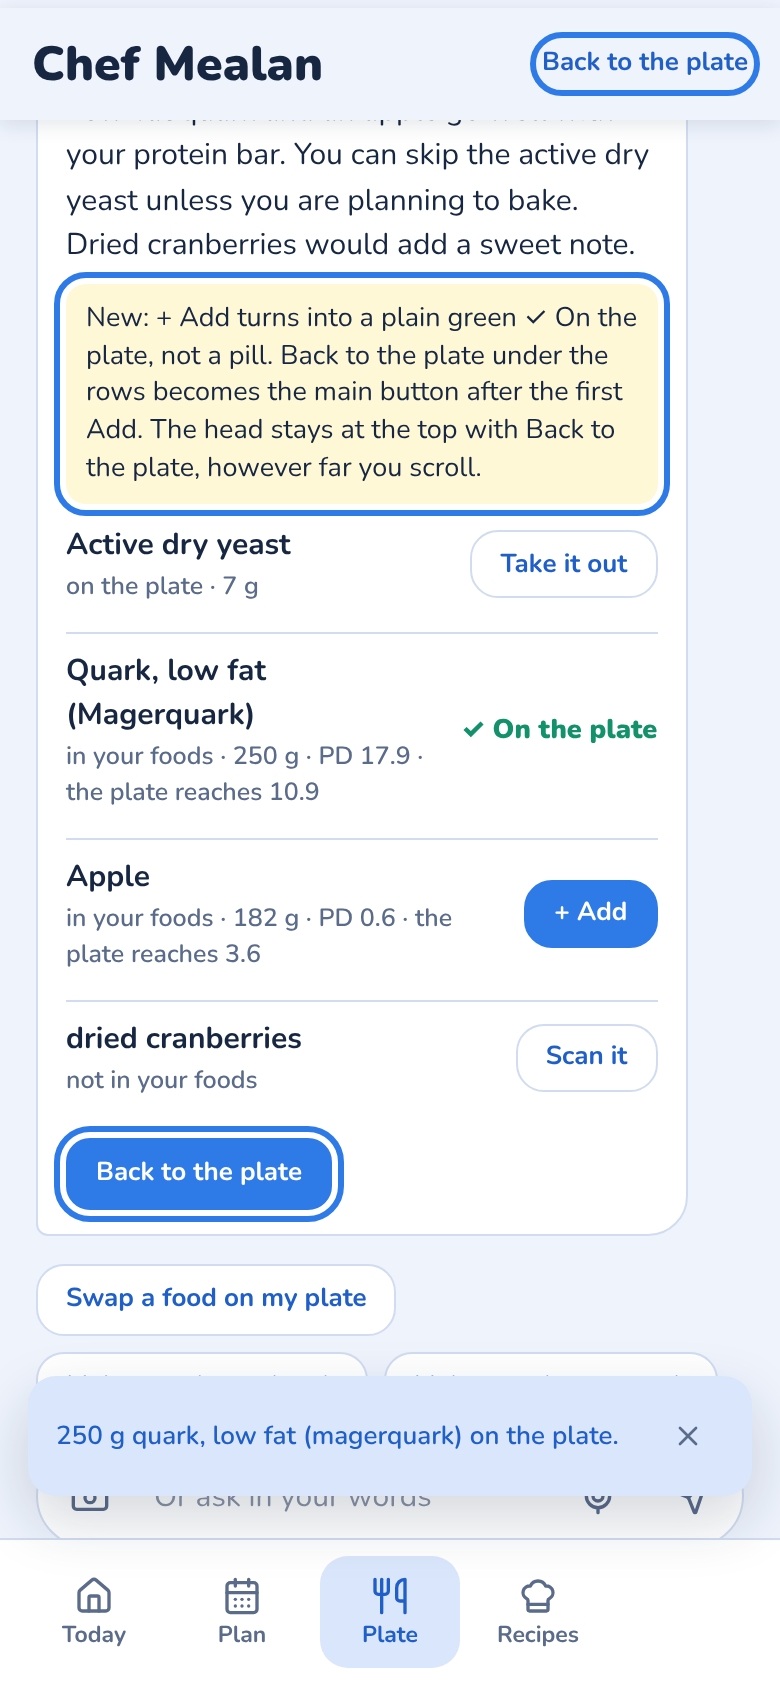
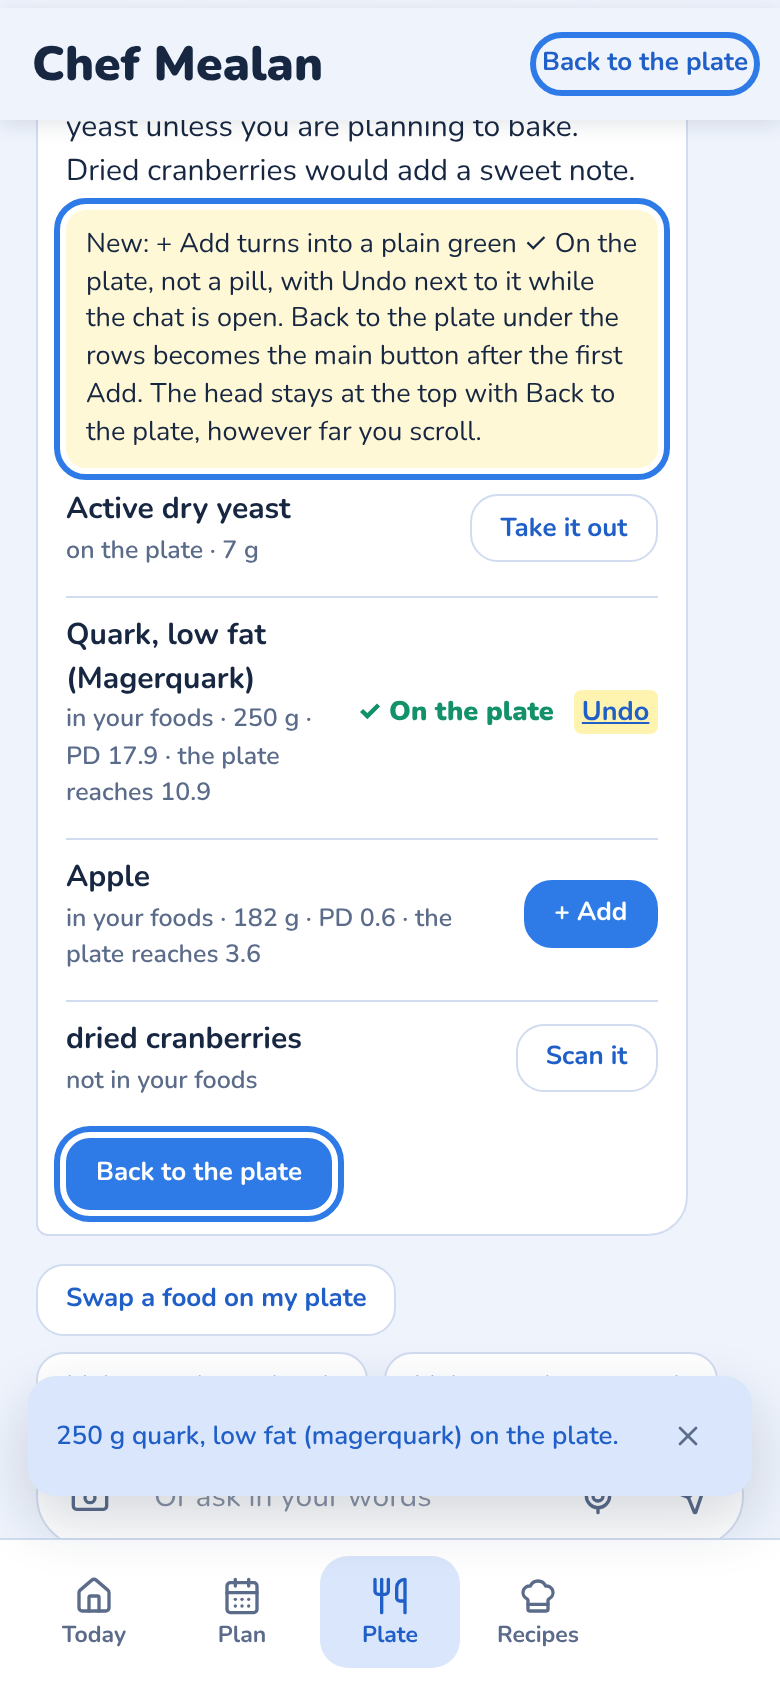
Board DT153 v3: Undo next to each tick while the chat is open
Claude-Session: https://claude.ai/code/session_01BtJPGKTfK5KfbXuNDmfhQP

Changed region(s): [[0.0615, 0.0616, 0.8615, 0.4929]]

diff --git a/design/boards/genDT153.py b/design/boards/genDT153.py
@@ -84,20 +84,22 @@ class Component extends DCLogic {{
 
 W = SX + 3 * (SW + GAP) - GAP + 70
 B = Board(); y = 30
-cy = storyCard(B, y, "DT153", "On plate looks like a button: a plain tick, and the way back always at hand", [
+cy = storyCard(B, y, "DT153", "On plate looks like a button: a plain tick with Undo, and the way back always at hand", [
   ("Coach Milan, 29 October 10:22, from Tester 3 Marko's testing", "There was a list of foods to add to the Plate, and that worked. Then the button turned into On plate or similar, with no action. It says the food is on the Plate, but it looks like a button you could tap to go back to the Plate. To close the chat we need to scroll all the way to the top."),
   ("Coach Milan, 10:32, with Tester 3 Marko's screen", "Here. In the plan was actually the message, but not the button."),
+  ("Coach Milan, 10:38 and 10:39", "Should we add Undo for the case it was added by mistake? Yes. Add."),
   ("Now, checked in 0.2.131", "After + Add the row shows On plate in a pill, the same shape as a button, and it does nothing. Back to the plate sits under the rows in grey, easy to miss. Close is at the top of the chat and scrolls away with it."),
-  ("The story", "After + Add the row shows a plain green ✓ On the plate: text with a tick, no pill, so it doesn't look tappable. The same for Take it out (✓ Out), Swap (✓ Swapped) and Put them in the plan (✓ In the plan). After the first Add, Back to the plate under the rows becomes the main button. The chat's head stays at the top while you scroll: Chef Mealan and where you came from: Back to the plate, Back to the plan, otherwise Close. After Put them in the plan, Back to the plan sits next to the tick as the main button."),
-  ("Not in it", "Taking you back to the Plate by itself after an Add: you may want to add two foods."),
+  ("The story", "After + Add the row shows a plain green ✓ On the plate: text with a tick, no pill, so it doesn't look tappable. The same for Take it out (✓ Out), Swap (✓ Swapped) and Put them in the plan (✓ In the plan). Next to each tick a small Undo link, plain text, not a pill: ✓ On the plate · Undo takes that food off the plate; ✓ Out · Undo puts it back at its old amount; ✓ Swapped · Undo brings back the meal that was there; ✓ In the plan · Undo empties the slots it filled (the fill only uses open slots, so nothing else changes). Undo shows while the chat is open; when you leave and come back, only the tick, because the plate or plan may have changed since. After the first Add, Back to the plate under the rows becomes the main button. The chat's head stays at the top while you scroll: Chef Mealan and where you came from: Back to the plate, Back to the plan, otherwise Close. After Put them in the plan, Back to the plan sits next to the tick as the main button."),
+  ("Checked in the build", "A walkthrough per Undo: the food off and back, the meal swapped back, the filled slots empty again and the day's numbers as before."),
+  ("Not in it", "Taking you back to the Plate by itself after an Add: you may want to add two foods. Undo after you left the chat: that is the Plate's and the Plan's own editing."),
 ])
 h = rowEnd(cy,
   B.screen("DT153a", 0, y, "Now: On plate, a dead pill", "r153a", "now", "Close is far up."),
-  B.screen("DT153b", 1, y, "New: a tick, the way back", "r153b", "changed", "✓ On the plate; Back to the plate primary and in the head."))
+  B.screen("DT153b", 1, y, "New: a tick, the way back", "r153b", "changed", "✓ On the plate · Undo; Back to the plate primary and in the head."))
 y = h
 h = rowEnd(y + 10,
   B.screen("DT153c", 0, y, "Now: In the plan, Marko's screen", "r153c", "now", "A message shaped like a button."),
-  B.screen("DT153d", 1, y, "New: ✓ In the plan, Back to the plan", "r153d", "changed", "The head says Back to the plan."))
+  B.screen("DT153d", 1, y, "New: ✓ In the plan, Back to the plan", "r153d", "changed", "✓ In the plan · Undo; the head says Back to the plan."))
 y = h
 board("Stories105.dc.html", "DT153. On plate looks like a button",
   "29 October 2026 (Coach Milan, from Tester 3 Marko's testing). Now: 0.2.131, untouched. Drawn for your approval; nothing built.",
